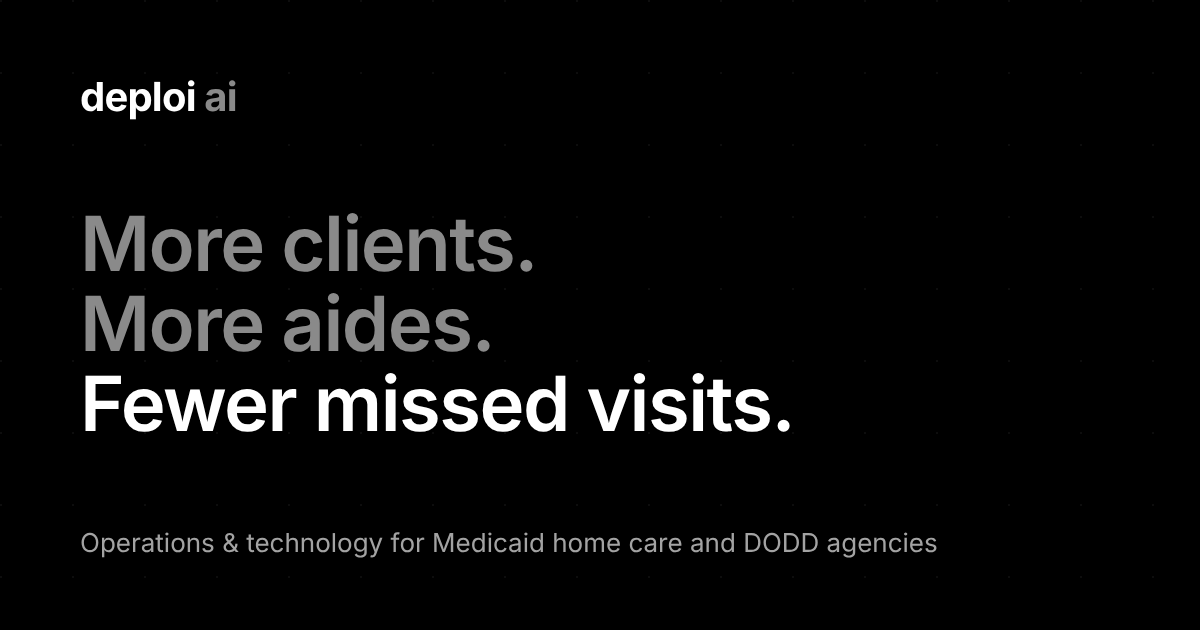
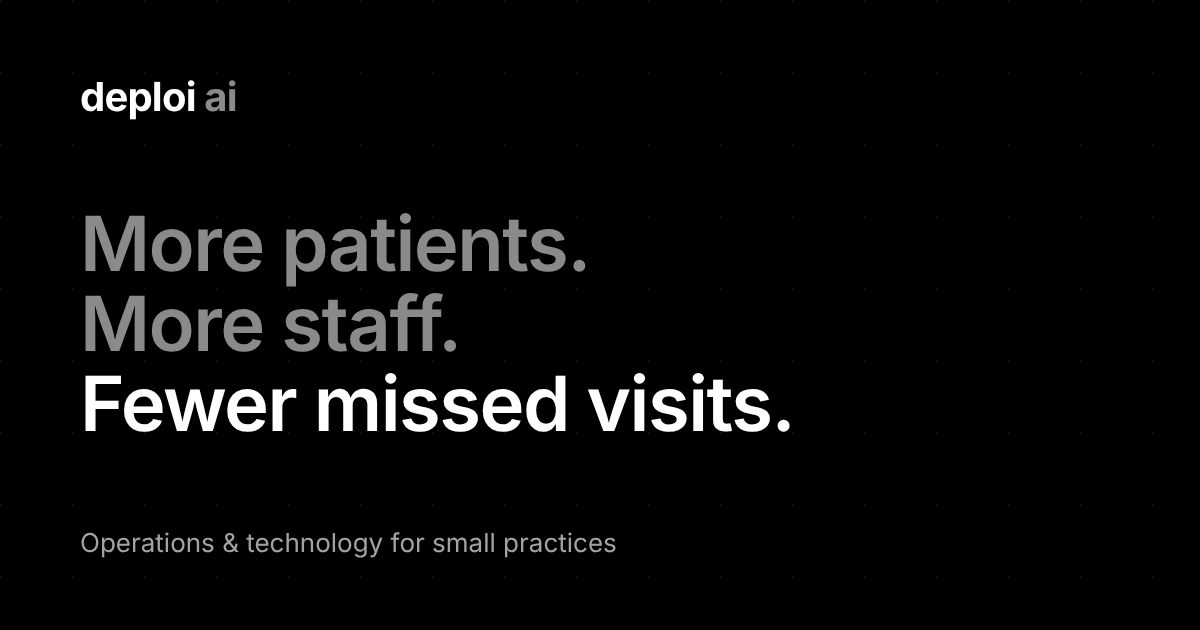
copy: position Deploi AI for small practices (home care, dental, therapy, primary care, specialty), home care kept as a named specialty
Claude-Session: https://claude.ai/code/session_01CwKCPSa42E9fmx171SnsbX

Changed region(s): [[0.2158, 0.3317, 0.4933, 0.573], [0.3392, 0.8444, 0.8017, 0.8746], [0.2158, 0.4222, 0.2467, 0.4524]]

diff --git a/src/pages/Home.tsx b/src/pages/Home.tsx
@@ -9,9 +9,9 @@ import { Icon } from '../lib/icons'
 
 export default function Home() {
   useSeo({
-    title: `${BRAND} — More clients. More aides. Fewer missed visits.`,
+    title: `${BRAND} — More patients. More staff. Fewer missed visits.`,
     description:
-      'Operations and technology for Medicaid home care and DODD agencies. We build and run the systems that answer your referrals, hire your aides, and protect every visit from an EVV or authorization denial.',
+      'Operations and technology for small practices: home care, dental, therapy, primary care and specialty clinics. We build and run the systems that answer your referrals, hire your staff, and protect every visit from a no-show, an authorization gap or a denied claim.',
   })
   return (
     <div className="home">
@@ -37,23 +37,23 @@ function Hero() {
     <section id="top" className="hero">
       <div className="hero-art" style={{ backgroundImage: art('hero') }} aria-hidden="true" />
       <div className="container hero-inner">
-        <span className="eyebrow reveal">Operations &amp; technology for Medicaid home care</span>
+        <span className="eyebrow reveal">Operations &amp; technology for small practices</span>
         <h1 className="two-tone reveal">
-          <span className="grey">More clients.</span><br />
-          <span className="grey">More aides.</span><br />
+          <span className="grey">More patients.</span><br />
+          <span className="grey">More staff.</span><br />
           <span className="white">Fewer missed visits.</span>
         </h1>
         <p className="lead reveal" style={{ maxWidth: 640 }}>
-          {BRAND} builds and runs the systems that answer your referrals, hire your aides, and
-          protect every visit from an EVV or authorization denial. You see it all on your own
-          dashboard, every morning.
+          {BRAND} builds and runs the systems that answer your referrals and new-patient calls,
+          hire your staff, and protect every visit from a no-show, an authorization gap or a
+          denied claim. You see it all on your own dashboard, every morning.
         </p>
         <div className="reveal">
           <BookButton>Book a call</BookButton>
         </div>
         <div className="hero-trust reveal">
-          <span>HIPAA · BAA signed before any client data</span>
-          <span>Built for PASSPORT, waiver, MyCare and DODD agencies</span>
+          <span>HIPAA · BAA signed before any patient data</span>
+          <span>Home care, dental, therapy, primary care and specialty practices</span>
           <span>Ohio today, other states as we go</span>
         </div>
       </div>
@@ -66,10 +66,10 @@ function Hero() {
 /* -------------------------------------------------------------------------- */
 function FourVoices() {
   const voices = [
-    { who: 'The owner', quote: '“I found out we lost the referral when the case manager stopped calling.”' },
-    { who: 'The scheduler', quote: '“Three call-offs by 7 a.m. and I’m texting aides one at a time.”' },
-    { who: 'The aide', quote: '“I applied Tuesday. Nobody called me back until the following week.”' },
-    { who: 'The biller', quote: '“The visit happened. The EVV didn’t match. The claim still didn’t pay.”' },
+    { who: 'The owner', quote: '“I found out we lost the referral when the referring office stopped calling.”' },
+    { who: 'The front desk', quote: '“Three cancellations by 8 a.m. and I’m calling the waitlist one patient at a time.”' },
+    { who: 'The new hire', quote: '“I applied Tuesday. Nobody called me back until the following week.”' },
+    { who: 'The biller', quote: '“The visit happened. The documentation didn’t match. The claim still didn’t pay.”' },
   ]
   return (
     <section id="problem" className="alt">
@@ -108,9 +108,9 @@ const DOOR_FACTS: [{ icon: ReactNode; label: string }, { icon: ReactNode; label:
 
 function ThreeDoors() {
   const doors = [
-    { tag: 'Growth', icon: <Icon.Inbox />, title: 'Win more referrals', to: '/#menu', art: 'growth' as ArtTheme },
-    { tag: 'Staffing', icon: <Icon.Users />, title: 'Hire and keep more aides', to: '/#menu', art: 'staffing' as ArtTheme },
-    { tag: 'Operations', icon: <Icon.Shield />, title: 'Keep every visit, and get paid for it', to: '/evv', art: 'operations' as ArtTheme },
+    { tag: 'Growth', icon: <Icon.Inbox />, title: 'Win more referrals and new patients', to: '/#menu', art: 'growth' as ArtTheme },
+    { tag: 'Staffing', icon: <Icon.Users />, title: 'Hire and keep more staff', to: '/#menu', art: 'staffing' as ArtTheme },
+    { tag: 'Operations', icon: <Icon.Shield />, title: 'Keep every visit, and get paid for it', to: '/#menu', art: 'operations' as ArtTheme },
   ]
   return (
     <section id="what">
@@ -122,7 +122,7 @@ function ThreeDoors() {
             <span className="white">One engine behind them.</span>
           </h2>
           <p className="lead">
-            We watch your inbox, phone line, scheduler and EVV for the moments that matter, act
+            We watch your inbox, phone line, scheduler and billing system for the moments that matter, act
             within minutes, and report back every morning.
           </p>
         </div>
@@ -142,16 +142,16 @@ function ThreeDoors() {
 /*  Full menu                                                                 */
 /* -------------------------------------------------------------------------- */
 export const MENU_ITEMS: { group: 'Growth' | 'Staffing' | 'Operations' | 'Money · later'; name: string; body: string; to?: string }[] = [
-  { group: 'Growth', name: 'Referral response', body: 'Minutes, not hours. Capacity confirmed, intake started.' },
-  { group: 'Growth', name: 'Private-pay leads + reviews', body: 'Every inquiry answered. Every happy family asked for a review.' },
-  { group: 'Growth', name: 'Referral-source nurturing', body: 'Monthly touch to the case managers and discharge planners who feed you.' },
+  { group: 'Growth', name: 'Referral response', body: 'Minutes, not hours. Availability confirmed, intake started.' },
+  { group: 'Growth', name: 'New-patient leads + reviews', body: 'Every inquiry answered. Every happy patient asked for a review.' },
+  { group: 'Growth', name: 'Referral-source nurturing', body: 'Monthly touch to the referring offices, case managers and discharge planners who feed you.' },
   { group: 'Staffing', name: 'Instant hiring', body: 'Applicants texted, screened and booked while they’re still interested.' },
   { group: 'Staffing', name: 'Retention', body: 'Shift reminders, 30/60/90 check-ins, early warning before a quit.' },
-  { group: 'Staffing', name: 'Credential tracking', body: 'STNA, CPR, annual training, background rechecks, flagged before they lapse.' },
-  { group: 'Operations', name: 'Open-shift fill', body: 'Call-offs pushed to qualified aides, families confirmed, late alerts sent.' },
-  { group: 'Operations', name: 'Authorization watch', body: 'Units used vs. authorized, expirations, re-auth reminders.' },
+  { group: 'Staffing', name: 'Credential tracking', body: 'Licenses, CPR, annual training, background rechecks, flagged before they lapse.' },
+  { group: 'Operations', name: 'Schedule gap fill', body: 'Cancellations and call-offs refilled from your waitlist or qualified staff, confirmations sent, late alerts raised.' },
+  { group: 'Operations', name: 'Authorization watch', body: 'Visits and units used vs. authorized, expirations, re-auth reminders.' },
   { group: 'Operations', name: 'After-hours line', body: 'Calls answered and logged. On-call reached. Owner woken only when it matters.' },
-  { group: 'Operations', name: 'EVV exception layer', body: 'Visits checked against EVV and the auth, fixed before they reach billing.', to: '/evv' },
+  { group: 'Operations', name: 'Claim exception layer', body: 'Visits checked against documentation, authorization and payer rules before billing. For home care, that is EVV.', to: '/evv' },
   { group: 'Money · later', name: 'Denial cleanup + managed billing', body: 'Once the operations are clean, we can run the money too.' },
 ]
 
@@ -212,12 +212,12 @@ function HowWeWork() {
     {
       n: '2',
       title: 'Build',
-      body: 'We build the piece that fixes the biggest leak, connected to the scheduler and EVV you already use. No rip-and-replace. Live in weeks.',
+      body: 'We build the piece that fixes the biggest leak, connected to the scheduler, EHR or EVV you already use. No rip-and-replace. Live in weeks.',
     },
     {
       n: '3',
       title: 'Run',
-      body: 'We run it monthly, add the next door when you’re ready, and send a morning report: referrals answered, shifts filled, exceptions fixed, units left.',
+      body: 'We run it monthly, add the next door when you’re ready, and send a morning report: referrals answered, gaps filled, exceptions fixed, units left.',
     },
   ]
   return (
@@ -252,9 +252,9 @@ const LANES = [
     label: 'Referrals',
     icon: <Icon.Inbox />,
     tasks: [
-      { ts: 'now', text: 'new referral from Franklin Co. case manager · confirming capacity', active: true },
-      { ts: '07:42', text: 'AAA referral answered · capacity confirmed in 6 min' },
-      { ts: '07:15', text: 'start-of-care follow-up sent to case manager' },
+      { ts: 'now', text: 'new referral from a referring office · confirming availability', active: true },
+      { ts: '07:42', text: 'hospital discharge referral answered · availability confirmed in 6 min' },
+      { ts: '07:15', text: 'first-visit follow-up sent to the referring office' },
     ],
   },
   {
@@ -263,16 +263,16 @@ const LANES = [
     tasks: [
       { ts: 'now', text: 'applicant texted back · screening 4 questions', active: true },
       { ts: '07:38', text: '2 applicants screened + booked · avg 8 min' },
-      { ts: '07:05', text: '60-day check-in sent to 3 aides' },
+      { ts: '07:05', text: '60-day check-in sent to 3 new hires' },
     ],
   },
   {
     label: 'Visits',
     icon: <Icon.Shield />,
     tasks: [
-      { ts: 'now', text: 'call-off: Mon 8a shift · offering to 5 qualified aides', active: true },
-      { ts: '07:31', text: 'open shift filled · family confirmed' },
-      { ts: '06:58', text: '3 EVV exceptions corrected before billing' },
+      { ts: 'now', text: 'cancellation: Mon 8a · offering the slot to the waitlist', active: true },
+      { ts: '07:31', text: 'gap filled · patient confirmed' },
+      { ts: '06:58', text: '3 claim exceptions corrected before billing' },
     ],
   },
 ]
@@ -329,17 +329,18 @@ function WhyDeploi() {
         </div>
         <ul className="why-list reveal">
           <li>
-            <strong>Medicaid is the starting point, not a lesson on your dime.</strong> Waiver, EVV,
-            authorizations and case-manager workflows: Ohio PASSPORT, Ohio Home Care Waiver, MyCare,
-            DODD and Sandata today; other states as we go.
+            <strong>Payer rules are the starting point, not a lesson on your dime.</strong> Medicaid and
+            Medicare, prior authorizations and referral workflows. In home care that means Ohio
+            PASSPORT, Ohio Home Care Waiver, MyCare, DODD and Sandata EVV today; other specialties
+            and states as we go.
           </li>
           <li>
             <strong>HIPAA from day one.</strong> A Business Associate Agreement is signed before we
-            touch a single client record.
+            touch a single patient record.
           </li>
           <li>
-            <strong>Your systems stay.</strong> We sit on top of the scheduler, EVV and phone line
-            you already pay for.
+            <strong>Your systems stay.</strong> We sit on top of the scheduler, EHR, EVV and phone
+            line you already pay for.
           </li>
           <li>
             <strong>A named founder answers the phone.</strong> No account manager, no ticket queue.
@@ -405,7 +406,7 @@ function Pricing() {
 /* -------------------------------------------------------------------------- */
 export const FAQS: { q: string; a: ReactNode }[] = [
   {
-    q: 'Do we have to change our scheduler or EVV?',
+    q: 'Do we have to change our scheduler, EHR or EVV?',
     a: <>No. We connect to what you already use. If a system can&rsquo;t connect, we tell you in the assessment, not after.</>,
   },
   {
@@ -417,8 +418,8 @@ export const FAQS: { q: string; a: ReactNode }[] = [
     a: <>Assessment within two weeks of booking. First build live within four to six weeks after that.</>,
   },
   {
-    q: 'Who sees our client data?',
-    a: <>Only what the work requires, under a signed BAA, with access logged. Staff-side services (hiring, credentials) touch no client records at all.</>,
+    q: 'Who sees our patient data?',
+    a: <>Only what the work requires, under a signed BAA, with access logged. Staff-side services (hiring, credentials) touch no patient records at all.</>,
   },
   {
     q: 'Are you only in Ohio?',

diff --git a/index.html b/index.html
@@ -4,8 +4,8 @@
     <meta charset="UTF-8" />
     <meta name="viewport" content="width=device-width, initial-scale=1.0" />
     <meta name="theme-color" content="#000000" />
-    <title>Deploi AI — More clients. More aides. Fewer missed visits.</title>
-    <meta name="description" content="Operations and technology for Medicaid home care and DODD agencies. We build and run the systems that answer your referrals, hire your aides, and protect every visit from an EVV or authorization denial." />
+    <title>Deploi AI — More patients. More staff. Fewer missed visits.</title>
+    <meta name="description" content="Operations and technology for small practices: home care, dental, therapy, primary care and specialty clinics. We build and run the systems that answer your referrals, hire your staff, and protect every visit from a no-show, an authorization gap or a denied claim." />
     <link rel="icon" href="/favicon.svg" type="image/svg+xml" />
     <link rel="canonical" href="https://getdeploi.com/" />
     <link rel="preconnect" href="https://fonts.googleapis.com" />
@@ -13,16 +13,16 @@
     <link rel="preload" as="style" href="https://fonts.googleapis.com/css2?family=Inter:wght@400;500;600;700&display=swap" onload="this.onload=null;this.rel='stylesheet'" />
     <noscript><link rel="stylesheet" href="https://fonts.googleapis.com/css2?family=Inter:wght@400;500;600;700&display=swap" /></noscript>
     <meta property="og:site_name" content="Deploi AI" />
-    <meta property="og:title" content="Deploi AI — More clients. More aides. Fewer missed visits." />
-    <meta property="og:description" content="Operations and technology for Medicaid home care and DODD agencies." />
+    <meta property="og:title" content="Deploi AI — More patients. More staff. Fewer missed visits." />
+    <meta property="og:description" content="Operations and technology for small practices: home care, dental, therapy, primary care and specialty clinics." />
     <meta property="og:type" content="website" />
     <meta property="og:url" content="https://getdeploi.com/" />
     <meta property="og:image" content="https://getdeploi.com/og.png" />
     <meta property="og:image:width" content="1200" />
     <meta property="og:image:height" content="630" />
     <meta name="twitter:card" content="summary_large_image" />
-    <meta name="twitter:title" content="Deploi AI — More clients. More aides. Fewer missed visits." />
-    <meta name="twitter:description" content="Operations and technology for Medicaid home care and DODD agencies." />
+    <meta name="twitter:title" content="Deploi AI — More patients. More staff. Fewer missed visits." />
+    <meta name="twitter:description" content="Operations and technology for small practices: home care, dental, therapy, primary care and specialty clinics." />
     <meta name="twitter:image" content="https://getdeploi.com/og.png" />
   </head>
   <body>

diff --git a/src/components/Footer.tsx b/src/components/Footer.tsx
@@ -8,7 +8,7 @@ export function Footer() {
     <footer>
       <div className="container">
         <div className="footer-brand">{WORDMARK[0]} <span className="brand-ai">{WORDMARK[1]}</span></div>
-        <p className="footer-tag">Operations and technology for Medicaid home care and DODD agencies.</p>
+        <p className="footer-tag">Operations and technology for small practices: home care, dental, therapy, primary care and specialty clinics.</p>
         <div className="footer-social">
           <a href="https://www.linkedin.com/company/getdeploi" aria-label={`${BRAND} on LinkedIn`} rel="noopener noreferrer" target="_blank"><Icon.LinkedIn /></a>
           <a href="https://www.youtube.com/@getdeploi" aria-label={`${BRAND} on YouTube`} rel="noopener noreferrer" target="_blank"><Icon.YouTube /></a>
@@ -23,7 +23,7 @@ export function Footer() {
               <li><Link to="/#menu">Services</Link></li>
               <li><Link to="/#how">How it works</Link></li>
               <li><Link to="/#pricing">Pricing</Link></li>
-              <li><Link to="/evv">EVV exception layer</Link></li>
+              <li><Link to="/evv">EVV exception layer (home care)</Link></li>
               <li><Link to="/#faq">FAQ</Link></li>
             </ul>
           </div>

diff --git a/src/pages/Legal.tsx b/src/pages/Legal.tsx
@@ -17,7 +17,7 @@ export function termsSections(entity: string): LegalSection[] {
     },
     {
       title: 'What we do',
-      body: <>We provide <strong>operations consulting, software implementation and managed services</strong> to home care and disability-services agencies. We do not provide legal, tax, billing-compliance or clinical advice. We are a service provider; we are not the maker of the underlying AI models or of your scheduling or EVV systems.</>,
+      body: <>We provide <strong>operations consulting, software implementation and managed services</strong> to small healthcare practices, including home care and disability-services agencies. We do not provide legal, tax, billing-compliance or clinical advice. We are a service provider; we are not the maker of the underlying AI models or of your scheduling or EVV systems.</>,
     },
     {
       title: 'No guarantees',

diff --git a/src/components/LeadForm.tsx b/src/components/LeadForm.tsx
@@ -18,7 +18,7 @@ export function LeadForm({
   source,
   cta = 'Book my call',
   messageLabel = 'What’s leaking right now?',
-  messagePlaceholder = 'e.g. referrals we answer too late, open shifts, EVV denials, hiring…',
+  messagePlaceholder = 'e.g. referrals we answer too late, no-shows, schedule gaps, denied claims, hiring…',
   compact = false,
   confirmation = { title: 'Got it.', body: 'We’ll reach out within one business day to set up your 20-minute call.' },
 }: Props) {
@@ -72,7 +72,7 @@ export function LeadForm({
       </div>
       {!compact && (
         <div className="field">
-          <label htmlFor={id('agency')}>Agency</label>
+          <label htmlFor={id('agency')}>Practice</label>
           <input id={id('agency')} name="agency_name" type="text" autoComplete="organization" required />
         </div>
       )}
